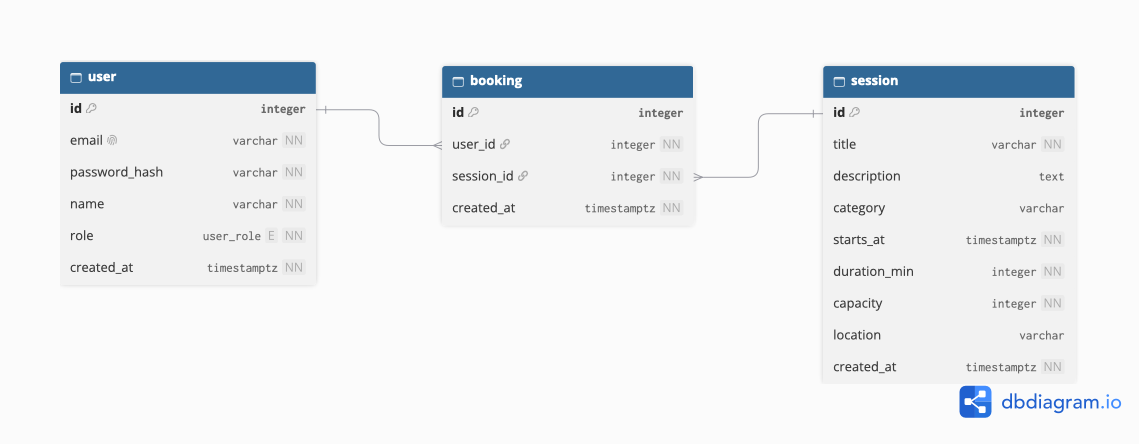
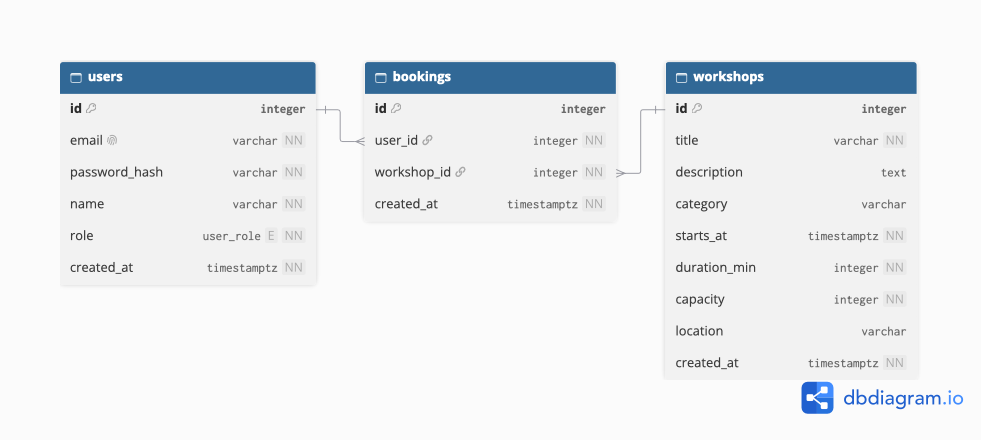
Domæne: Workshop i stedet for Session, ny ERD

diff --git a/docs/rapport.md b/docs/rapport.md
@@ -38,20 +38,20 @@ SKRIVEVEJLEDNING (fjernes inden aflevering)
 
 ![Figur 1: ER-diagram for holdbooking](img/erd.png)
 
-*Figur 1: ER-diagram for holdbooking. Booking er en join-entitet mellem User og Session. Kombinationen (user_id, session_id) er unik, så et medlem ikke kan booke det samme hold to gange, og session.starts_at er indekseret for at gøre datofiltrering hurtig.*
+*Figur 1: ER-diagram for holdbooking. Booking er en join-entitet mellem User og Workshop. Kombinationen (user_id, workshop_id) er unik, så et medlem ikke kan booke det samme hold to gange, og workshops.starts_at er indekseret for at gøre datofiltrering hurtig.*
 
 **Entiteter**
 - User: email unik, password gemmes kun som bcrypt-hash, rolle er enum (admin/member)
-- Session: et hold med tidspunkt, varighed og kapacitet
-- Booking: kobler en user og en session sammen og har sin egen `created_at`
+- Workshop: en workshop eller et kursus med tidspunkt, varighed og kapacitet
+- Booking: kobler en user og en workshop sammen og har sin egen `created_at`
 
 **Relationer**
-- User 1–n Booking og Session 1–n Booking giver tilsammen User n–m Session
+- User 1–n Booking og Workshop 1–n Booking giver tilsammen User n–m Workshop
 - Hvorfor Booking er en rigtig entitet og ikke en ren join-tabel: den har egne data og egne endpoints (book og afmeld)
 
 **Constraints, og hvorfor de ligger i databasen**
 - NOT NULL på fremmednøglerne, så en booking aldrig kan mangle en ejer eller et hold
-- UNIQUE på email og på (user_id, session_id). Databasen er sidste forsvar, også hvis backenden har en fejl.
+- UNIQUE på email og på (user_id, workshop_id). Databasen er sidste forsvar, også hvis backenden har en fejl.
 - ON DELETE CASCADE: sletter man et hold, forsvinder dets bookinger. Alternativet RESTRICT er overvejet. *(begrund valget)*
 
 **Normalisering**
@@ -84,9 +84,9 @@ SKRIVEVEJLEDNING (fjernes inden aflevering)
 
 ## 7. Indexes og query-optimering *(¾ side · skrives 2/12)*
 
-- Index på `session.starts_at` til filteret `?from=&to=`
+- Index på `workshops.starts_at` til filteret `?from=&to=`
 - `EXPLAIN ANALYZE` før og efter med ~10.000 hold: Seq Scan → Index Scan *(figur eller kodeblok)*
-- Den unikke index på (user_id, session_id) dækker også opslag på user_id (`GET /me/bookings`)
+- Den unikke index på (user_id, workshop_id) dækker også opslag på user_id (`GET /me/bookings`)
 - Ulempe ved indexes: langsommere skrivning og mere plads
 
 ## 8. Sikkerhed *(1 side · skrives 3/12)*
@@ -98,14 +98,14 @@ SKRIVEVEJLEDNING (fjernes inden aflevering)
 
 ## 9. Alternativt design: dokumentdatabase (MongoDB) *(1 side · skrives 4/12)*
 
-- Dokumentmodel: users, sessions, bookings
+- Dokumentmodel: users, workshops, bookings
 - Embed eller reference for bookinger? *(begrund)*
 - 3–4 eksempelqueries
 - Hvordan håndteres kapacitet og dobbeltbooking uden fremmednøgler og join?
 
 ## 10. Alternativt design: grafdatabase (Neo4j) *(1 side · skrives 5/12)*
 
-- Noder: `(:User)`, `(:Session)` · relation: `(:User)-[:BOOKED {createdAt}]->(:Session)`
+- Noder: `(:User)`, `(:Workshop)` · relation: `(:User)-[:BOOKED {createdAt}]->(:Workshop)`
 - 3–4 Cypher-queries, inkl. "medlemmer der tog dette hold, tog også …"
 
 ## 11. Sammenligning *(¾ side · skrives 6/12)*
